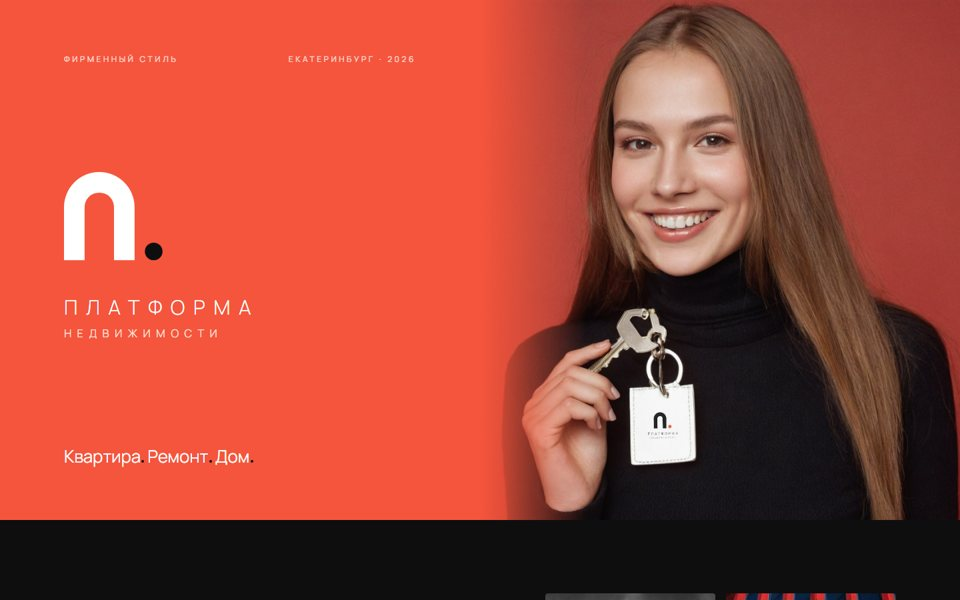
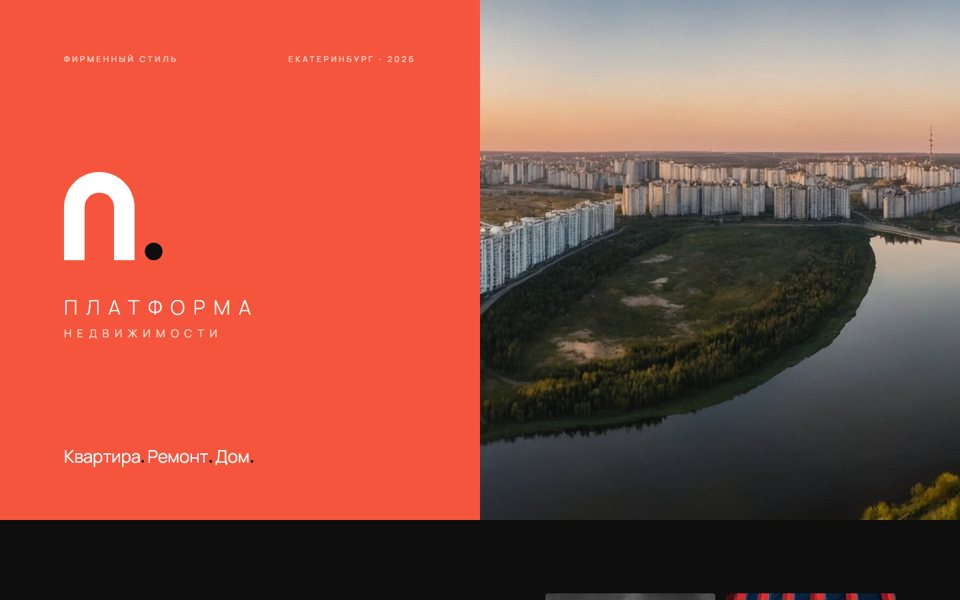
Обложка презентации без человека: вид Екатеринбурга

diff --git a/07_Презентация/index.html b/07_Презентация/index.html
@@ -19,8 +19,8 @@ p.lead{font-size:20px;line-height:1.55;max-width:620px;color:inherit;opacity:.85
 .cover{height:780px;background:#F5553C;display:grid;grid-template-columns:1fr 1fr}
 .cover .l svg{width:150px;height:auto}
 .cover .l{padding:80px 96px;display:flex;flex-direction:column;justify-content:space-between;color:#fff}
-.cover .r{background:url(photo/advisor.jpg) 50% 30%/cover;position:relative}
-.cover .r::after{content:'';position:absolute;inset:0;background:linear-gradient(90deg,#F5553C 0%,#F5553C00 22%)}
+.cover .r{background:url(photo/ekb_aerial.jpg) 46% 50%/cover;position:relative}
+.cover .r::after{display:none}
 .cover .meta{display:flex;justify-content:space-between;font-size:12px;letter-spacing:.3em;text-transform:uppercase;opacity:.8}
 /* about */
 .about{display:grid;grid-template-columns:1.1fr .9fr;gap:80px;align-items:end}
@@ -127,7 +127,7 @@ p.lead{font-size:20px;line-height:1.55;max-width:620px;color:inherit;opacity:.85
     <div><svg width="150" height="132.4" viewBox="0 0 68 60" role="img" aria-label="Знак «П.»" style="overflow:visible;display:block"><path d="M0 60 V24 A24 24 0 0 1 48 24 V60 H34 V24 A10 10 0 0 0 14 24 V60 Z" fill="#FFFFFF"/><circle cx="61" cy="54" r="6" fill="#0E0E0F"/></svg><div style="margin-top:56px"><div style="display:flex;flex-direction:column;align-items:flex-start"><div style="font:300 30px/1 Manrope,sans-serif;letter-spacing:.42em;margin-right:-.42em;color:#FFFFFF;white-space:nowrap">ПЛАТФОРМА</div><div style="font:400 16.5px/1 Manrope,sans-serif;letter-spacing:.5em;margin-right:-.5em;color:#FFE1DB;white-space:nowrap;margin-top:16px">НЕДВИЖИМОСТИ</div></div></div></div>
     <div style="font:400 26px/1.2 Manrope;letter-spacing:-.01em"><em class="nw">Квартира<i class="o n"></i></em> <em class="nw">Ремонт<i class="o n"></i></em> <em class="nw">Дом<i class="o n"></i></em></div>
   </div>
-  <div class="r" role="img" aria-label="Консультант Платформы с ключами от квартиры"></div>
+  <div class="r" role="img" aria-label="Екатеринбург на закате: новые кварталы у пруда"></div>
 </section>
 
 <section class="dark"><div class="in">

diff --git a/tools/p_present.py b/tools/p_present.py
@@ -203,8 +203,8 @@ p.lead{{font-size:20px;line-height:1.55;max-width:620px;color:inherit;opacity:.8
 .cover{{height:780px;background:{RED};display:grid;grid-template-columns:1fr 1fr}}
 .cover .l svg{{width:150px;height:auto}}
 .cover .l{{padding:80px 96px;display:flex;flex-direction:column;justify-content:space-between;color:#fff}}
-.cover .r{{background:url(photo/advisor.jpg) 50% 30%/cover;position:relative}}
-.cover .r::after{{content:'';position:absolute;inset:0;background:linear-gradient(90deg,{RED} 0%,#F5553C00 22%)}}
+.cover .r{{background:url(photo/ekb_aerial.jpg) 46% 50%/cover;position:relative}}
+.cover .r::after{{display:none}}
 .cover .meta{{display:flex;justify-content:space-between;font-size:12px;letter-spacing:.3em;text-transform:uppercase;opacity:.8}}
 /* about */
 .about{{display:grid;grid-template-columns:1.1fr .9fr;gap:80px;align-items:end}}
@@ -311,7 +311,7 @@ p.lead{{font-size:20px;line-height:1.55;max-width:620px;color:inherit;opacity:.8
     <div>{mark(150, WHITE, NIGHT)}<div style="margin-top:56px">{word(WHITE, 30, "#FFE1DB")}</div></div>
     <div style="font:400 26px/1.2 Manrope;letter-spacing:-.01em">Квартира<i class="o n"></i> Ремонт<i class="o n"></i> Дом<i class="o n"></i></div>
   </div>
-  <div class="r" role="img" aria-label="Консультант Платформы с ключами от квартиры"></div>
+  <div class="r" role="img" aria-label="Екатеринбург на закате: новые кварталы у пруда"></div>
 </section>
 
 <section class="dark"><div class="in">
